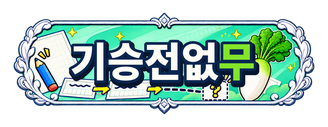
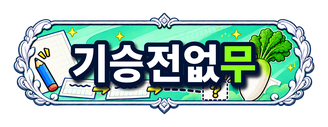
Replace eight badge images with the retypeset artwork
Swap in the new catalog artwork for 자율출석인, 원고지절약, 상담필요함,
확씨, 레드벨벳, 하나마루, 기승전없무 and 근거없을무, all downscaled to
328x127 from the 2200x850 originals.

The first three were the last 569x220 images in the set, so every badge
is now a single size. No badge is added, removed or renamed, and no id,
label or description changes.

Bump the image cache-buster from v=2 to v=3 so viewers holding the old
artwork at these unchanged URLs fetch the new files.

Claude-Session: https://claude.ai/code/session_01Sc4FKAn8H9SmhDaUKBKDfz

Changed region(s): [[0.1829, 0.3071, 0.8232, 0.7323]]

diff --git a/src/worker.js b/src/worker.js
@@ -95,7 +95,7 @@ function renderBadge(b, manualByBadge) {
   return `
   <section class="badge-section">
     <div class="badge-head">
-      <img class="${imgClass}" src="/badge-assets/${b.id}.png?v=2" alt="${escapeHtml(b.label)}">
+      <img class="${imgClass}" src="/badge-assets/${b.id}.png?v=3" alt="${escapeHtml(b.label)}">
       <div class="badge-headtext">
         <div class="badge-title">${escapeHtml(b.label)} <span class="count">${names.length}명</span></div>
         <div class="badge-desc">${desc}</div>

diff --git a/public/admin-badges.html b/public/admin-badges.html
@@ -120,7 +120,7 @@ var saved = {};   // code -> [badgeId,...]  (last known server state)
 var pending = {};  // code -> [badgeId,...]  (working copy being edited)
 var dirty = false;
 
-function badgePath(id){ return '/badge-assets/' + id + '.png?v=2'; }
+function badgePath(id){ return '/badge-assets/' + id + '.png?v=3'; }
 
 function renderLegend(){
   var root = document.getElementById('legendGrid');
